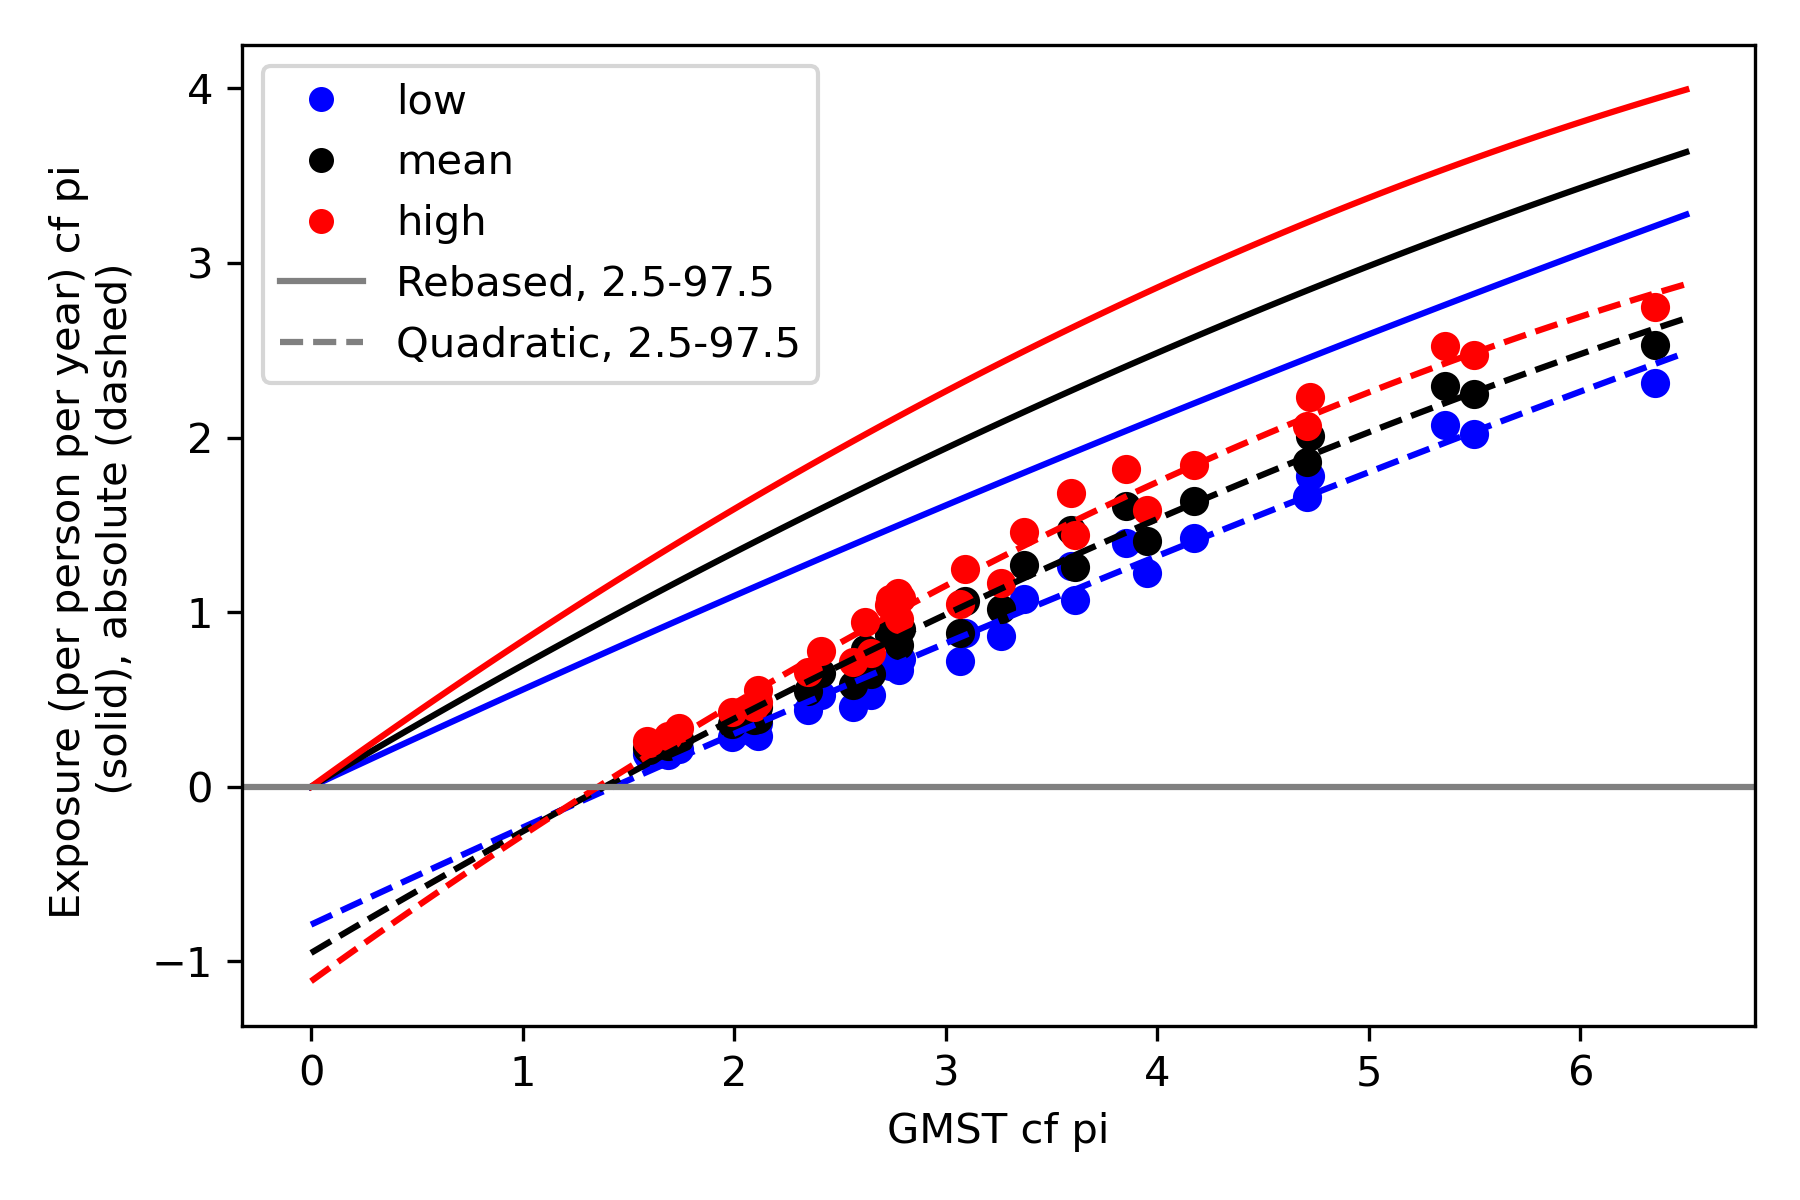
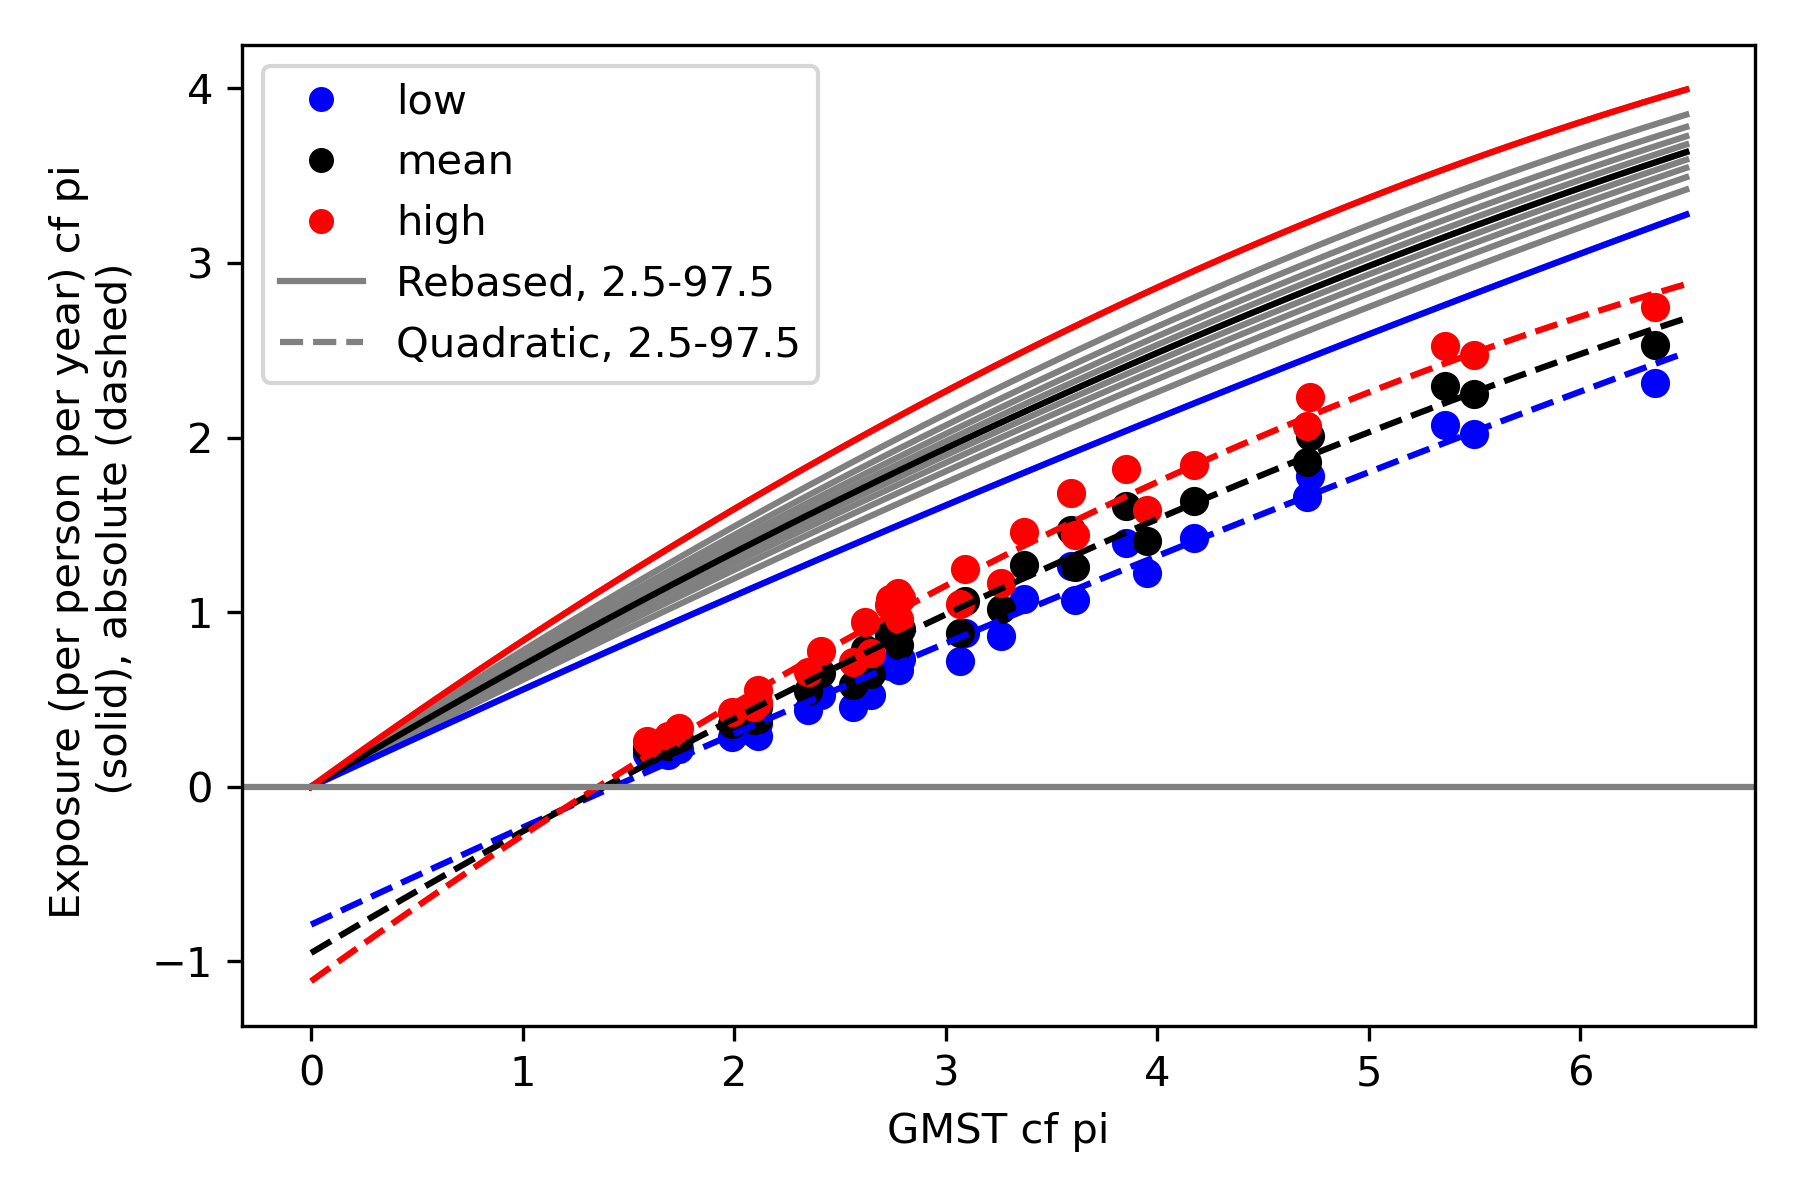
updating to 11 percentiles

Changed region(s): [[0.2178, 0.0925, 0.9644, 0.6167]]

diff --git a/scripts/03_calculate_exposures.py b/scripts/03_calculate_exposures.py
@@ -7,6 +7,7 @@ import copy
 from matplotlib.lines import Line2D
 import matplotlib.patches as mpatches
 import pickle
+import scipy.stats
 
 # express the exposure variables as functions of GMST, from combined ESGF
 # and NASA data.
@@ -327,6 +328,8 @@ for exposure in exposures:
 
 
 params_dict = {}
+params_in_dict = {}
+
 for exposure in exposures:
 
     params_in, _ = curve_fit(
@@ -338,13 +341,70 @@ for exposure in exposures:
 
     params_no_int[0] = 0
     
-    params_dict[exposure] = params_no_int[1:]
+    params_dict[exposure] = params_no_int
+    params_in_dict[exposure] = params_in
     
 
-    plt.plot(temps_plot, fit(temps_plot, *params_no_int),
+#%%
+
+def opt(x, q025_desired, q50_desired, q975_desired):
+    q025, q50, q975 = scipy.stats.skewnorm.ppf(
+        (0.025, 0.50, 0.975), x[0], loc=x[1], scale=x[2]
+    )
+    return (q025 - q025_desired, q50 - q50_desired, q975 - q975_desired)
+
+temps_stats = np.linspace(0.5, 4.5, 9) 
+
+dist_params = {}
+    
+for t in temps_stats:
+    
+    q025_in = fit(t, *params_dict['low'])
+    q50_in = fit(t, *params_dict['mean'])
+    q975_in = fit(t, *params_dict['high'])
+
+    params_in = scipy.optimize.root(opt, [1, 1, 1], 
+                args=(q025_in, q50_in, q975_in)).x
+        
+    dist_params[t] = params_in
+
+
+
+params_percentiles = {}
+
+percentiles = np.linspace(0.025, 0.975, 11)
+
+for perc_i, percentile in enumerate(percentiles):
+    vals = []
+    for t in temps_stats:
+        params_dist = dist_params[t]
+        
+        vals.append(scipy.stats.skewnorm.ppf(percentile, 
+                     params_dist[0], params_dist[1], params_dist[2]))
+        
+        
+    params_percentile, _ = curve_fit(
+        fit, temps_stats, vals)
+    
+    params_percentiles[percentile] = params_percentile
+
+
+
+for perc_i, percentile in enumerate(percentiles):
+
+    params_in = params_percentiles[percentile]             
+
+    plt.plot(temps_plot, fit(temps_plot, *params_in), 
+             color='grey',
+             )
+    
+for exposure in exposures:
+
+
+    plt.plot(temps_plot, fit(temps_plot, *params_dict[exposure]),
              label=f'{exposure}', color=exposure_colors[exposure])
 
-    plt.plot(temps_plot, fit(temps_plot, *params_in),
+    plt.plot(temps_plot, fit(temps_plot, *params_in_dict[exposure]),
              linestyle='dashed', color=exposure_colors[exposure])
     
 
@@ -353,6 +413,10 @@ for exposure in exposures:
         color=exposure_colors[exposure])
 
 
+
+
+    
+    
 plt.axhline(0, color='grey')
 plt.xlabel('GMST cf pi')#' (offset: {np.around(gmst_offset, decimals=3)}K)')
 plt.ylabel('Exposure (per person per year) cf pi \n (solid), absolute (dashed)')
@@ -370,7 +434,7 @@ handles.append(Line2D([0], [0], linestyle='--', label='Quadratic, 2.5-97.5', col
 
 plt.legend(handles=handles)
 
- 
+
 plt.tight_layout()
 plt.savefig(
     f"{FIGDIR}/Exposure_as_f_T.png", dpi=300
@@ -381,4 +445,24 @@ plt.close()
 with open('../data/outputs/params_dict.pickle', 'wb') as handle:
     pickle.dump(params_dict, handle, protocol=pickle.HIGHEST_PROTOCOL)
 
+
+#%%
+
+
+output_dict = {}
+output_dict['Percentiles'] = percentiles
+output_dict['Energy Balance Model.T effect on population exposure to record breaking indices[1]'
+            ] = np.full(percentiles.shape, np.nan)
+output_dict['Energy Balance Model.T2 effect on population exposure to record breaking indices[1]'
+            ] = np.full(percentiles.shape, np.nan)
+
+for perc_i, percentile in enumerate(percentiles):
+    output_dict['Energy Balance Model.T effect on population exposure to record breaking indices[1]'
+                ][perc_i] = params_percentiles[percentile][0]
+    
+    output_dict['Energy Balance Model.T2 effect on population exposure to record breaking indices[1]'
+                ][perc_i] = params_percentiles[percentile][1]
+    
+with open('../data/outputs/exposure_output_dict.pickle', 'wb') as handle:
+    pickle.dump(output_dict, handle, protocol=pickle.HIGHEST_PROTOCOL)
 
